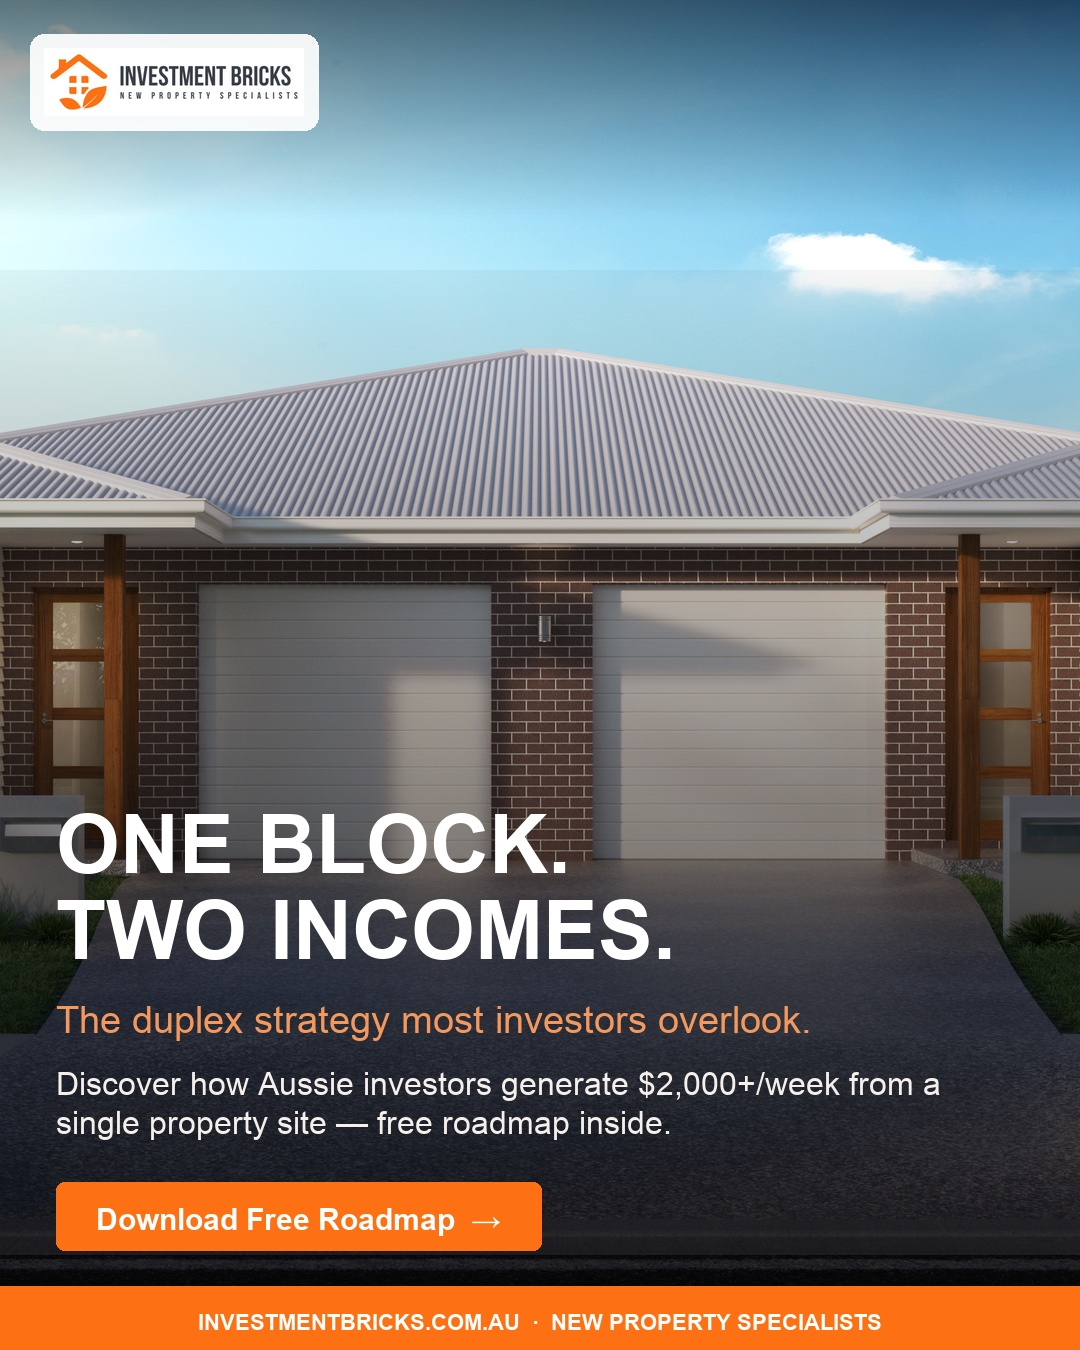
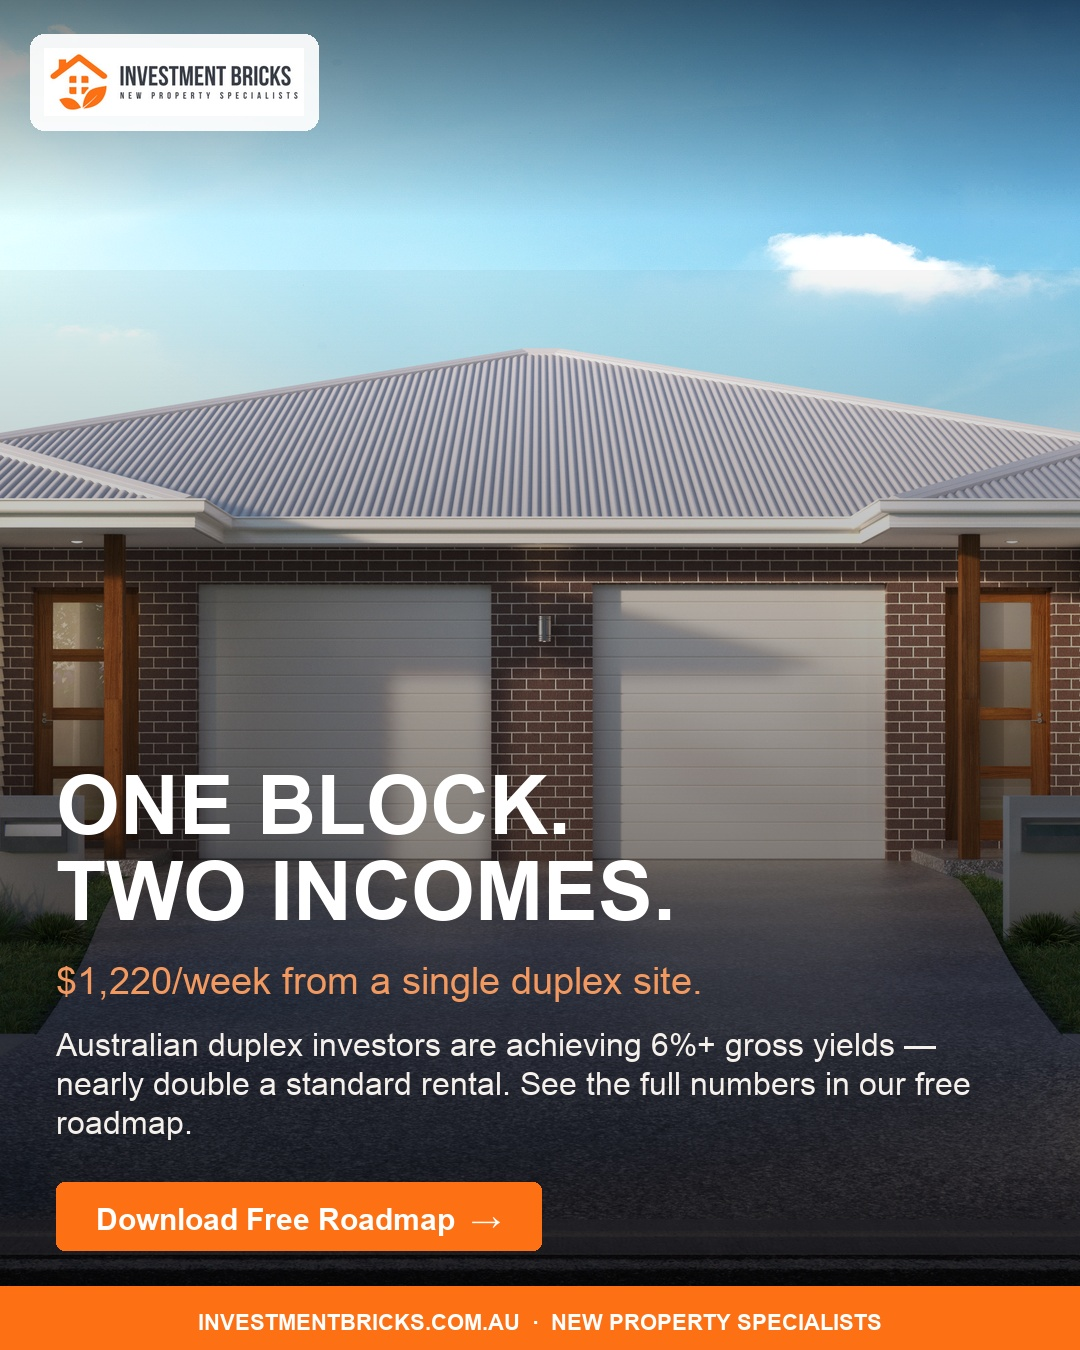
Refresh 3 Meta ad creatives with roadmap data + new hero image
- Ad 1: Updated sub-headline to $1,220/week, body references 6%+ gross yield
- Ad 2: Replaced blurry image with high-res ChatGPT render; sub-headline now shows 6.27% yield + ~$291K 5yr equity
- Ad 3: Updated body copy to reference <1.5% vacancy rate stat from roadmap

Changed region(s): [[0.0306, 0.56, 0.8861, 0.84]]

diff --git a/generate_ads.py b/generate_ads.py
@@ -1,0 +1,271 @@
+#!/usr/bin/env python3
+"""
+Investment Bricks — Meta Ad Generator
+Creates 3 x 1080x1350 (4:5) JPEG ads, one per targeting angle.
+"""
+
+from PIL import Image, ImageDraw, ImageFont, ImageFilter, ImageEnhance
+import os
+import textwrap
+
+BASE = "/Users/Business/Desktop/Client Buildout/Investment Bricks"
+ASSETS = os.path.join(BASE, "Assets")
+OUT_DIR = os.path.join(ASSETS, "Ads")
+os.makedirs(OUT_DIR, exist_ok=True)
+
+# ── Fonts ──────────────────────────────────────────────────────────────────────
+FONT_BOLD   = "/System/Library/Fonts/Supplemental/Arial Bold.ttf"
+FONT_REG    = "/System/Library/Fonts/Supplemental/Arial.ttf"
+FONT_SFNS   = "/System/Library/Fonts/SFNS.ttf"
+
+# Fallback: use SFNS for everything if Arial isn't present
+def load_font(path, size):
+    try:
+        return ImageFont.truetype(path, size)
+    except Exception:
+        return ImageFont.truetype(FONT_SFNS, size)
+
+# ── Colours ────────────────────────────────────────────────────────────────────
+ORANGE   = (253, 112,  20)
+PEACH    = (243, 153,  95)
+CHARCOAL = ( 30,  30,  30)
+WHITE    = (255, 255, 255)
+OFF_WHT  = (245, 240, 235)
+
+W, H = 1080, 1350   # 4:5 portrait
+
+
+def draw_multiline(draw, text, font, x, y, fill, max_width, line_spacing=1.18):
+    """Draw left-aligned multiline text, wrapping at max_width pixels."""
+    words = text.split()
+    lines = []
+    current = []
+    for word in words:
+        test = " ".join(current + [word])
+        bbox = draw.textbbox((0, 0), test, font=font)
+        if bbox[2] - bbox[0] > max_width and current:
+            lines.append(" ".join(current))
+            current = [word]
+        else:
+            current.append(word)
+    if current:
+        lines.append(" ".join(current))
+
+    line_h = draw.textbbox((0, 0), "A", font=font)[3]
+    for i, line in enumerate(lines):
+        draw.text((x, y + i * line_h * line_spacing), line, font=font, fill=fill)
+    return y + len(lines) * line_h * line_spacing
+
+
+def draw_rounded_rect(draw, x1, y1, x2, y2, radius, fill):
+    draw.rounded_rectangle([x1, y1, x2, y2], radius=radius, fill=fill)
+
+
+def add_gradient_overlay(img, start_alpha=0, end_alpha=210, start_y_frac=0.25):
+    """Vertical dark gradient from transparent at top to dark at bottom."""
+    overlay = Image.new("RGBA", img.size, (0, 0, 0, 0))
+    draw = ImageDraw.Draw(overlay)
+    start_y = int(H * start_y_frac)
+    for y in range(start_y, H):
+        progress = (y - start_y) / (H - start_y)
+        alpha = int(start_alpha + (end_alpha - start_alpha) * progress)
+        draw.line([(0, y), (W, y)], fill=(0, 0, 0, alpha))
+    base = img.convert("RGBA")
+    combined = Image.alpha_composite(base, overlay)
+    return combined.convert("RGB")
+
+
+def add_top_gradient(img, end_alpha=140):
+    """Subtle dark gradient from top (for logo legibility)."""
+    overlay = Image.new("RGBA", img.size, (0, 0, 0, 0))
+    draw = ImageDraw.Draw(overlay)
+    top_h = 220
+    for y in range(top_h):
+        alpha = int(end_alpha * (1 - y / top_h))
+        draw.line([(0, y), (W, y)], fill=(0, 0, 0, alpha))
+    base = img.convert("RGBA")
+    combined = Image.alpha_composite(base, overlay)
+    return combined.convert("RGB")
+
+
+def place_logo(img):
+    """Stamp the Investment Bricks logo top-left with a white pill bg."""
+    logo_path = os.path.join(BASE, "Investment Bricks Logo.jpg")
+    logo = Image.open(logo_path).convert("RGBA")
+    logo_w = 260
+    ratio = logo_w / logo.width
+    logo_h = int(logo.height * ratio)
+    logo = logo.resize((logo_w, logo_h), Image.LANCZOS)
+
+    # White pill behind logo
+    pad = 14
+    pill = Image.new("RGBA", img.size, (0, 0, 0, 0))
+    pill_draw = ImageDraw.Draw(pill)
+    pill_draw.rounded_rectangle(
+        [44 - pad, 48 - pad, 44 + logo_w + pad, 48 + logo_h + pad],
+        radius=14, fill=(255, 255, 255, 235)
+    )
+    base = img.convert("RGBA")
+    base = Image.alpha_composite(base, pill)
+    base.paste(logo, (44, 48), logo)
+    return base.convert("RGB")
+
+
+def make_ad(bg_path, headline, sub, body, cta, out_name,
+            enhance_brightness=1.0, enhance_saturation=1.1,
+            gradient_start=0.22):
+    img = Image.open(bg_path).convert("RGB")
+
+    # Fill canvas (crop-centre)
+    img_ratio = img.width / img.height
+    canvas_ratio = W / H
+    if img_ratio > canvas_ratio:
+        new_h = H
+        new_w = int(H * img_ratio)
+    else:
+        new_w = W
+        new_h = int(W / img_ratio)
+    img = img.resize((new_w, new_h), Image.LANCZOS)
+    left = (new_w - W) // 2
+    top  = (new_h - H) // 2
+    img = img.crop((left, top, left + W, top + H))
+
+    # Subtle colour enhancement
+    img = ImageEnhance.Brightness(img).enhance(enhance_brightness)
+    img = ImageEnhance.Color(img).enhance(enhance_saturation)
+
+    # Gradients
+    img = add_top_gradient(img, end_alpha=130)
+    img = add_gradient_overlay(img, start_alpha=10, end_alpha=225, start_y_frac=gradient_start)
+
+    # Logo
+    img = place_logo(img)
+
+    draw = ImageDraw.Draw(img)
+
+    # ── Orange accent bar at very bottom ──────────────────────────────────────
+    bar_h = 64
+    draw.rectangle([(0, H - bar_h), (W, H)], fill=ORANGE)
+
+    # Brand tagline inside bar
+    tag_font = load_font(FONT_BOLD, 22)
+    tag_text = "INVESTMENTBRICKS.COM.AU  ·  NEW PROPERTY SPECIALISTS"
+    tb = draw.textbbox((0, 0), tag_text, font=tag_font)
+    tx = (W - (tb[2] - tb[0])) // 2
+    ty = H - bar_h + (bar_h - (tb[3] - tb[1])) // 2
+    draw.text((tx, ty), tag_text, font=tag_font, fill=WHITE)
+
+    # ── Text block ──────────────────────────────────────────────────────────
+    TEXT_L = 56       # left margin
+    TEXT_W = W - 112  # max text width
+    BOTTOM_PAD = bar_h + 36
+
+    # CTA button (draw first, then position text above it)
+    cta_font  = load_font(FONT_BOLD, 30)
+    cta_bbox  = draw.textbbox((0, 0), cta, font=cta_font)
+    cta_tw    = cta_bbox[2] - cta_bbox[0]
+    cta_th    = cta_bbox[3] - cta_bbox[1]
+    btn_pad_x, btn_pad_y = 40, 20
+    btn_w = cta_tw + btn_pad_x * 2
+    btn_h = cta_th + btn_pad_y * 2
+    btn_y = H - BOTTOM_PAD - btn_h
+    draw_rounded_rect(draw, TEXT_L, btn_y, TEXT_L + btn_w, btn_y + btn_h, 8, ORANGE)
+    # Button text
+    draw.text((TEXT_L + btn_pad_x, btn_y + btn_pad_y), cta, font=cta_font, fill=WHITE)
+
+    # Body text
+    body_font = load_font(FONT_REG, 32)
+    body_y = btn_y - 20
+    lines = []
+    words = body.split()
+    current = []
+    for word in words:
+        test = " ".join(current + [word])
+        bb = draw.textbbox((0, 0), test, font=body_font)
+        if bb[2] - bb[0] > TEXT_W and current:
+            lines.append(" ".join(current))
+            current = [word]
+        else:
+            current.append(word)
+    if current:
+        lines.append(" ".join(current))
+    line_h = draw.textbbox((0, 0), "A", font=body_font)[3] * 1.35
+    body_y -= len(lines) * line_h + 18
+    for i, line in enumerate(lines):
+        draw.text((TEXT_L, body_y + i * line_h), line, font=body_font, fill=OFF_WHT)
+
+    # Sub-headline
+    sub_font = load_font(FONT_REG, 38)
+    sub_lines = []
+    words = sub.split()
+    current = []
+    for word in words:
+        test = " ".join(current + [word])
+        bb = draw.textbbox((0, 0), test, font=sub_font)
+        if bb[2] - bb[0] > TEXT_W and current:
+            sub_lines.append(" ".join(current))
+            current = [word]
+        else:
+            current.append(word)
+    if current:
+        sub_lines.append(" ".join(current))
+    sub_line_h = draw.textbbox((0, 0), "A", font=sub_font)[3] * 1.3
+    sub_y = body_y - len(sub_lines) * sub_line_h - 22
+    for i, line in enumerate(sub_lines):
+        draw.text((TEXT_L, sub_y + i * sub_line_h), line, font=sub_font, fill=PEACH)
+
+    # Main headline
+    hl_font = load_font(FONT_BOLD, 82)
+    hl_lines = headline.split("\n")
+    hl_line_h = draw.textbbox((0, 0), "A", font=hl_font)[3] * 1.15
+    hl_y = sub_y - len(hl_lines) * hl_line_h - 28
+    for i, line in enumerate(hl_lines):
+        draw.text((TEXT_L, hl_y + i * hl_line_h), line, font=hl_font, fill=WHITE)
+
+    # Save
+    out_path = os.path.join(OUT_DIR, out_name)
+    img.save(out_path, "JPEG", quality=95)
+    print(f"✓  Saved: {out_path}")
+
+
+# ── AD 1 — Dual Income / Cash Flow ────────────────────────────────────────────
+make_ad(
+    bg_path   = os.path.join(ASSETS, "Photo-1.jpeg"),
+    headline  = "ONE BLOCK.\nTWO INCOMES.",
+    sub       = "$1,220/week from a single duplex site.",
+    body      = "Australian duplex investors are achieving 6%+ gross yields — nearly double a standard rental. See the full numbers in our free roadmap.",
+    cta       = "Download Free Roadmap  →",
+    out_name  = "ad-1-dual-income.jpg",
+    enhance_brightness=1.05,
+    gradient_start=0.20,
+)
+
+# ── AD 2 — Equity / Wealth Building ───────────────────────────────────────────
+_ad2_img = next(f for f in os.listdir(ASSETS) if "ChatGPT" in f)
+make_ad(
+    bg_path   = os.path.join(ASSETS, _ad2_img),
+    headline  = "BUILD WEALTH\nSMARTER.",
+    sub       = "6.27% yield. ~$291K equity in 5 years.",
+    body      = "Our Duplex Investment Roadmap breaks down the exact numbers — from land cost to dual income in 12–18 months.",
+    cta       = "Get the Free Roadmap  →",
+    out_name  = "ad-2-wealth-equity.jpg",
+    enhance_brightness=1.0,
+    enhance_saturation=1.08,
+    gradient_start=0.22,
+)
+
+# ── AD 3 — Education / FOMO ───────────────────────────────────────────────────
+_ad3_img = next(f for f in os.listdir(ASSETS) if "2026-05-19" in f)
+make_ad(
+    bg_path   = os.path.join(ASSETS, _ad3_img),
+    headline  = "MOST INVESTORS\nMISS THIS.",
+    sub       = "Two incomes. One land parcel. One strategy.",
+    body      = "200+ Australian investors already use this. The Duplex Investment Roadmap reveals how — vacancy under 1.5% nationally means both dwellings stay tenanted.",
+    cta       = "Download Free Roadmap  →",
+    out_name  = "ad-3-education-fomo.jpg",
+    enhance_brightness=1.08,
+    enhance_saturation=1.1,
+    gradient_start=0.15,
+)
+
+print("\nAll 3 ads generated in:", OUT_DIR)